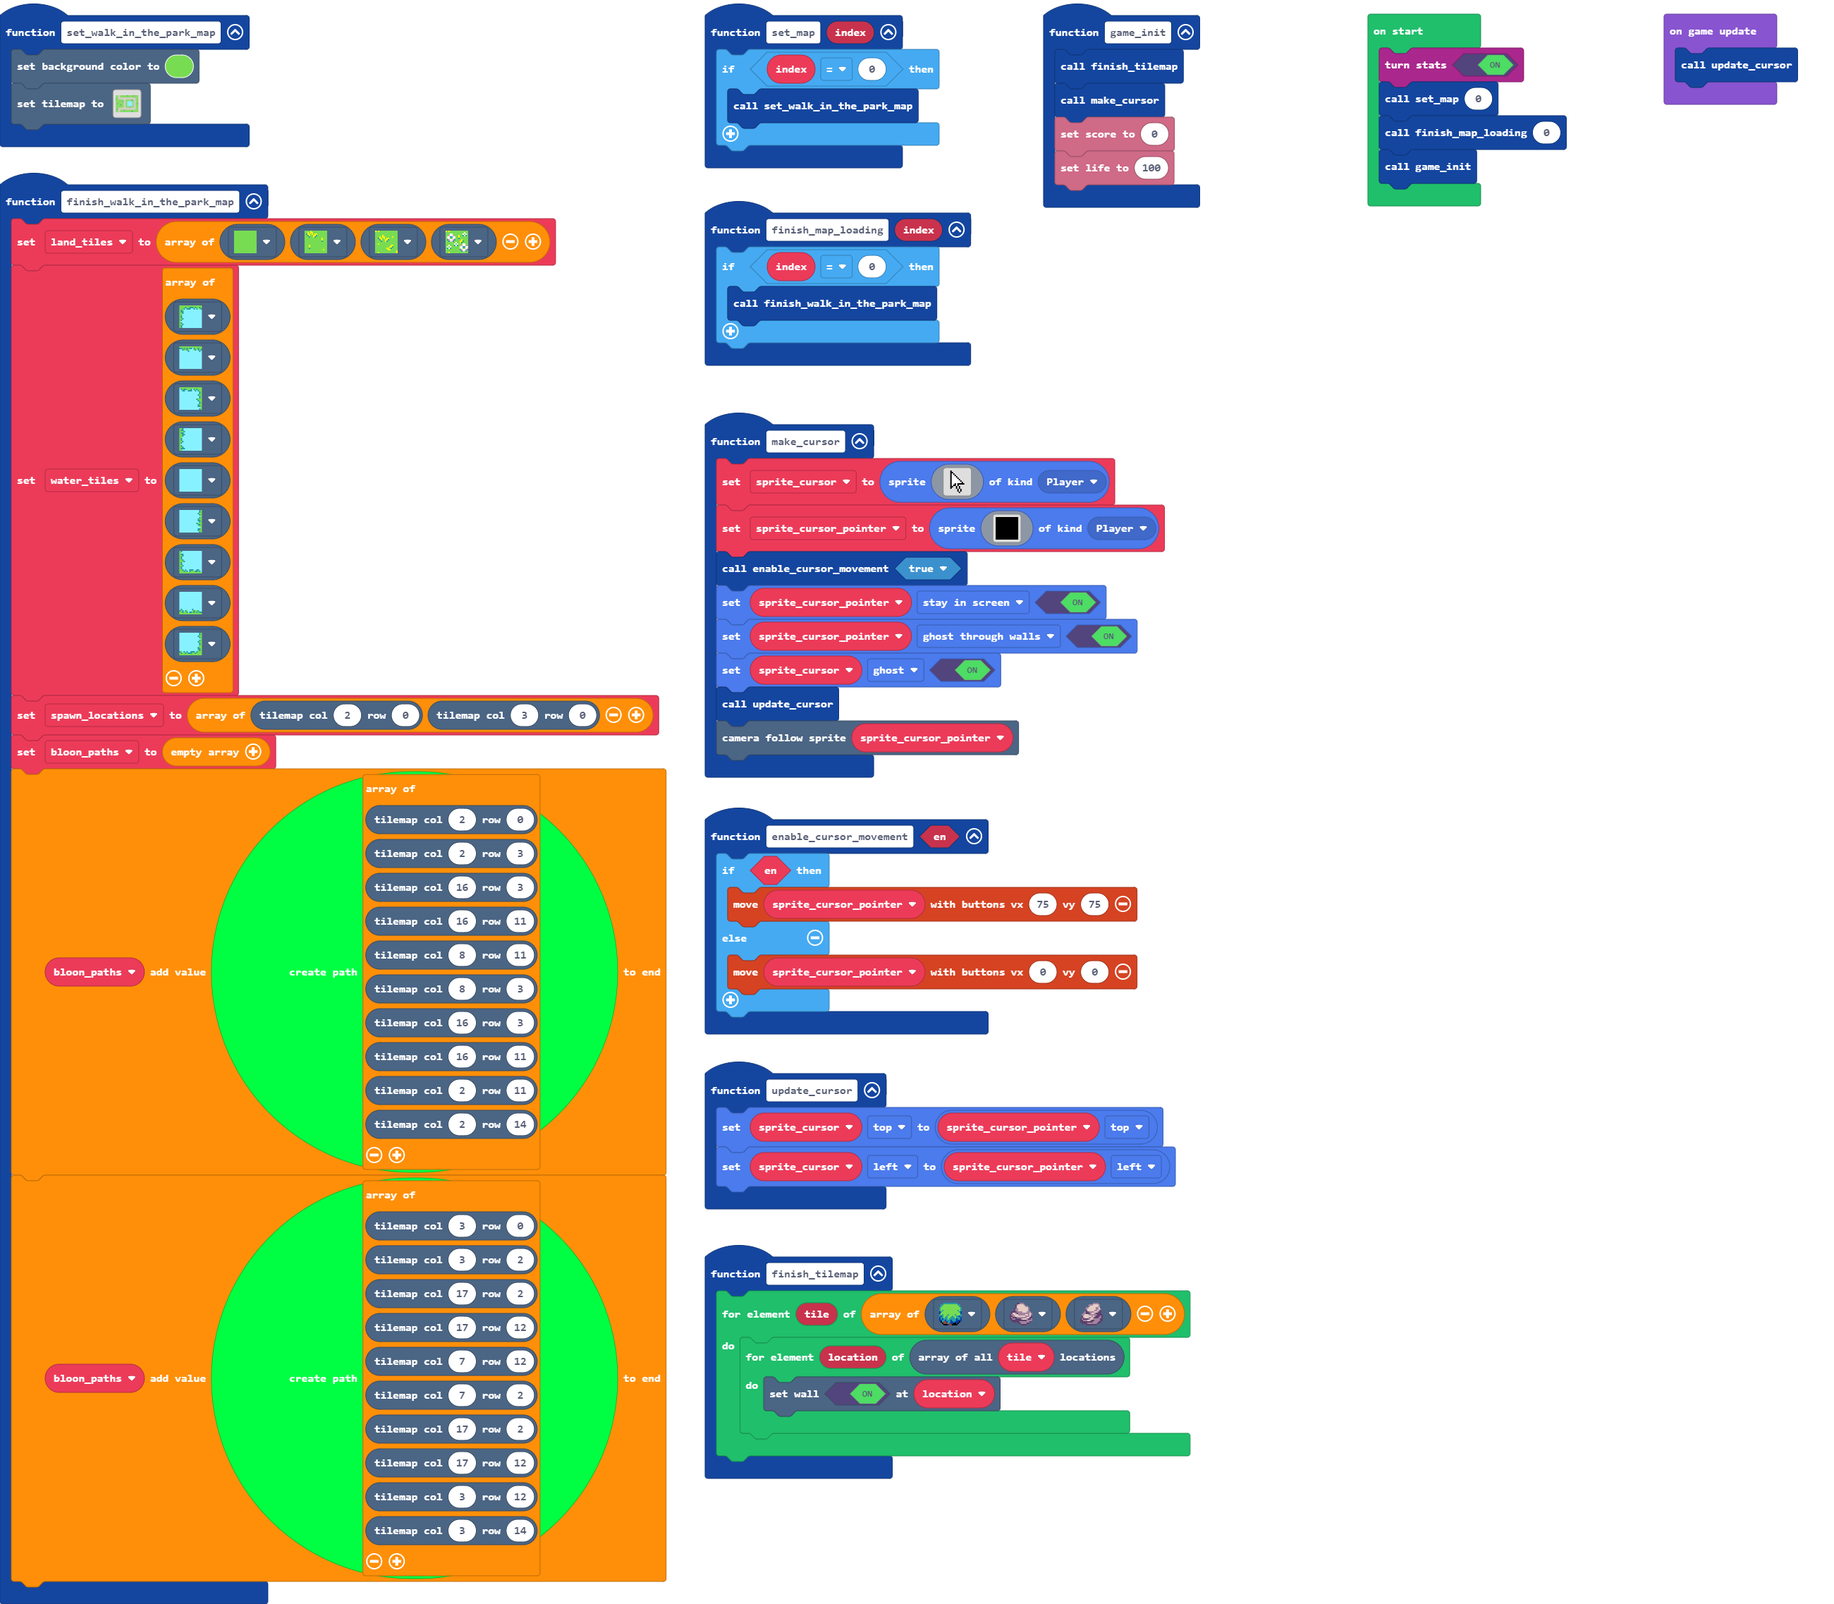
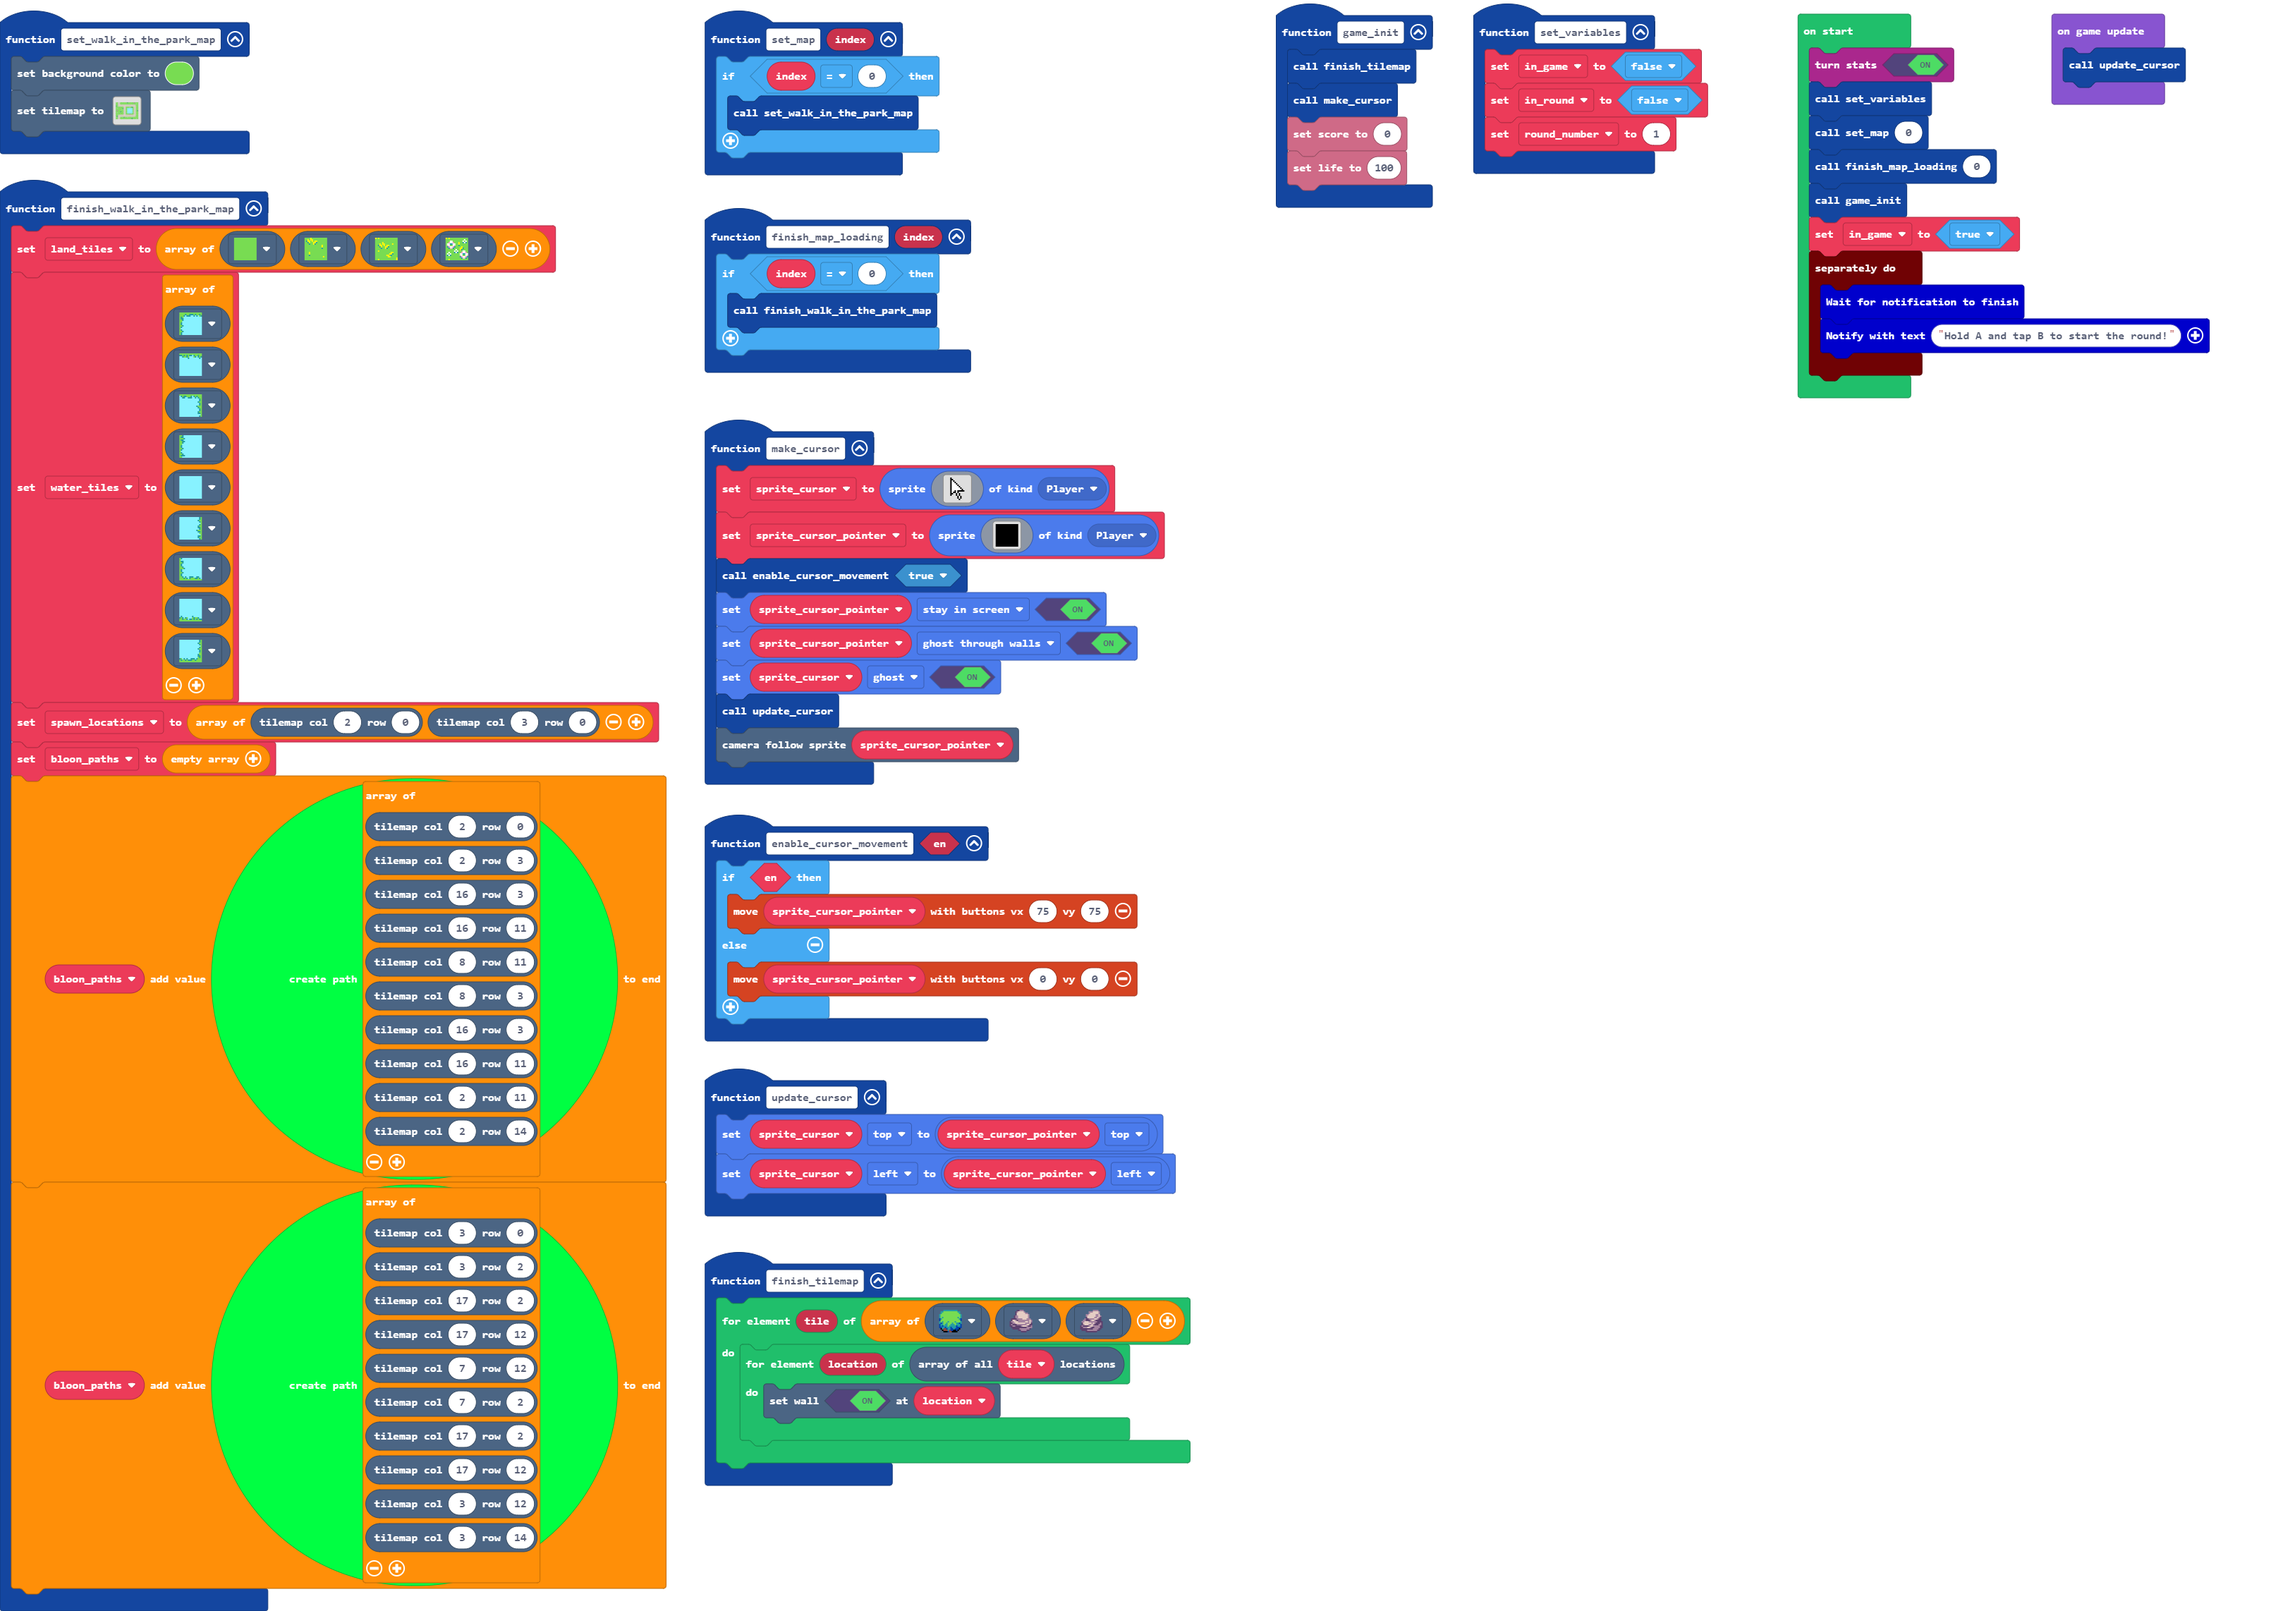
Show notification to tell user how to start round

diff --git a/main.ts b/main.ts
@@ -2,6 +2,11 @@ function update_cursor () {
     sprite_cursor.top = sprite_cursor_pointer.top
     sprite_cursor.left = sprite_cursor_pointer.left
 }
+function set_variables () {
+    in_game = false
+    in_round = false
+    round_number = 1
+}
 function enable_cursor_movement (en: boolean) {
     if (en) {
         controller.moveSprite(sprite_cursor_pointer, 75, 75)
@@ -90,12 +95,21 @@ let bloon_paths: TilemapPath.TilemapPath[] = []
 let spawn_locations: tiles.Location[] = []
 let water_tiles: Image[] = []
 let land_tiles: Image[] = []
+let round_number = 0
+let in_round = false
 let sprite_cursor_pointer: Sprite = null
 let sprite_cursor: Sprite = null
+let in_game = false
 stats.turnStats(true)
+set_variables()
 set_map(0)
 finish_map_loading(0)
 game_init()
+in_game = true
+timer.background(function () {
+    Notification.waitForNotificationFinish()
+    Notification.notify("Hold A and tap B to start the round!")
+})
 game.onUpdate(function () {
     update_cursor()
 })
